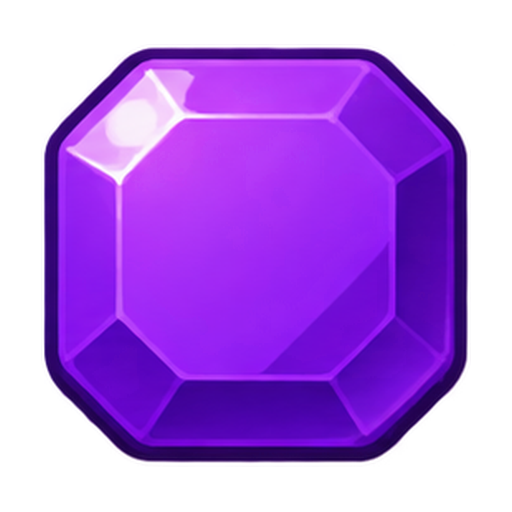
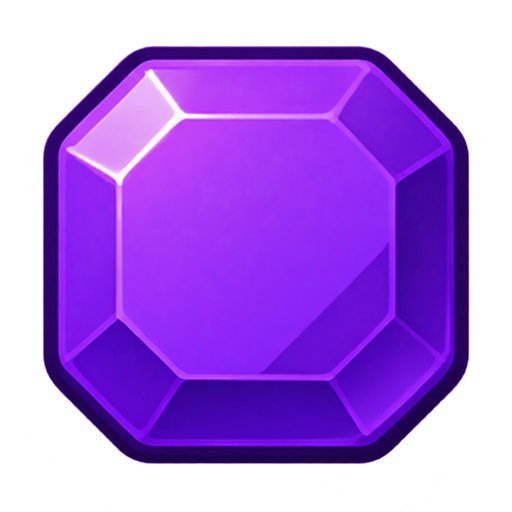
Clean white spots from Purple gem sprite

diff --git a/Docs/Art/README.md b/Docs/Art/README.md
@@ -17,6 +17,8 @@ Step 3 readability fix: `Normal/Green.png` was visibly smaller and off-center on
 
 Beam Crystal thickness fix (after Step 7b): both Beam Crystals read as a thin sliver at board size. Their opaque area (alpha ≥ 128) covered about 20% of the canvas (H 426 × 209 px, V 160 × 409 px), against about 60% for the gems. Each body was stretched 1.45× across its beam only, around the canvas centre (bilinear on premultiplied alpha), so its length is unchanged; `BeamCrystal_V.png` was also moved by whole pixels (−3, −8) to sit centred. They now measure H 426 × 303 px and V 232 × 409 px, centred at (255.5, 255–256), and cover about 29% each, close to the Wisp (28%) and still clearly directional. The outline is about 1.45× thicker across the beam, which is invisible at board size. The canvas, `.meta` files, import settings, prefab, collider and code are unchanged. Checked beside all gems and specials at 32, 48 and 64 px cells, and with the row/column effect feedback at 60 fps.
 
+Purple spot cleanup (2026-10-25): a targeted image edit removed the round white blotches in the upper-left facet and cleaned stray edge debris while retaining the purple gem's faceted appearance and bright edge highlights. The built-in image generation tool produced the edit; its output was downsampled to the existing 512 × 512 transparent RGBA canvas. The existing `.meta`, sprite references, PPU, prefab, collider and gameplay code are unchanged.
+
 ### Runtime sprites
 
 `Assets/Art/Tiles/PrismaticEnergy/`
